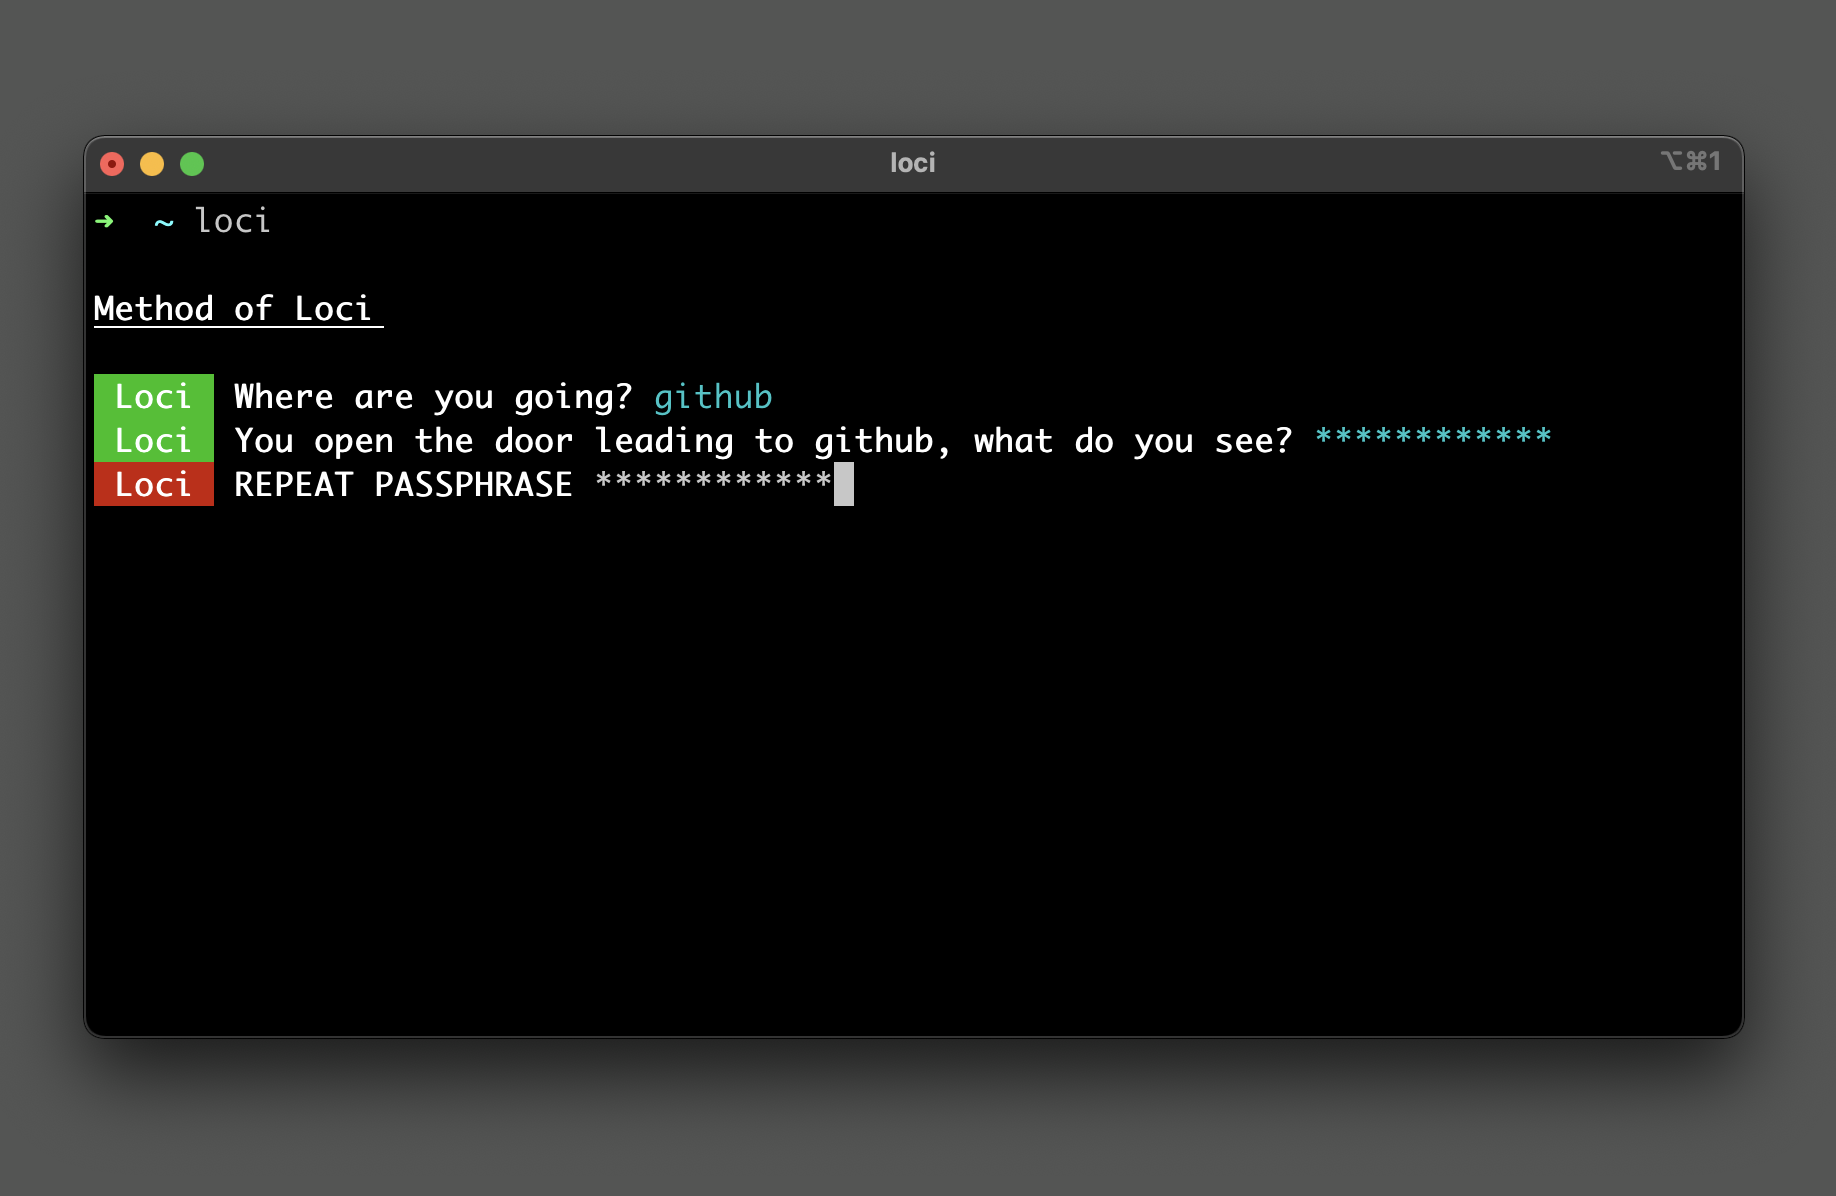
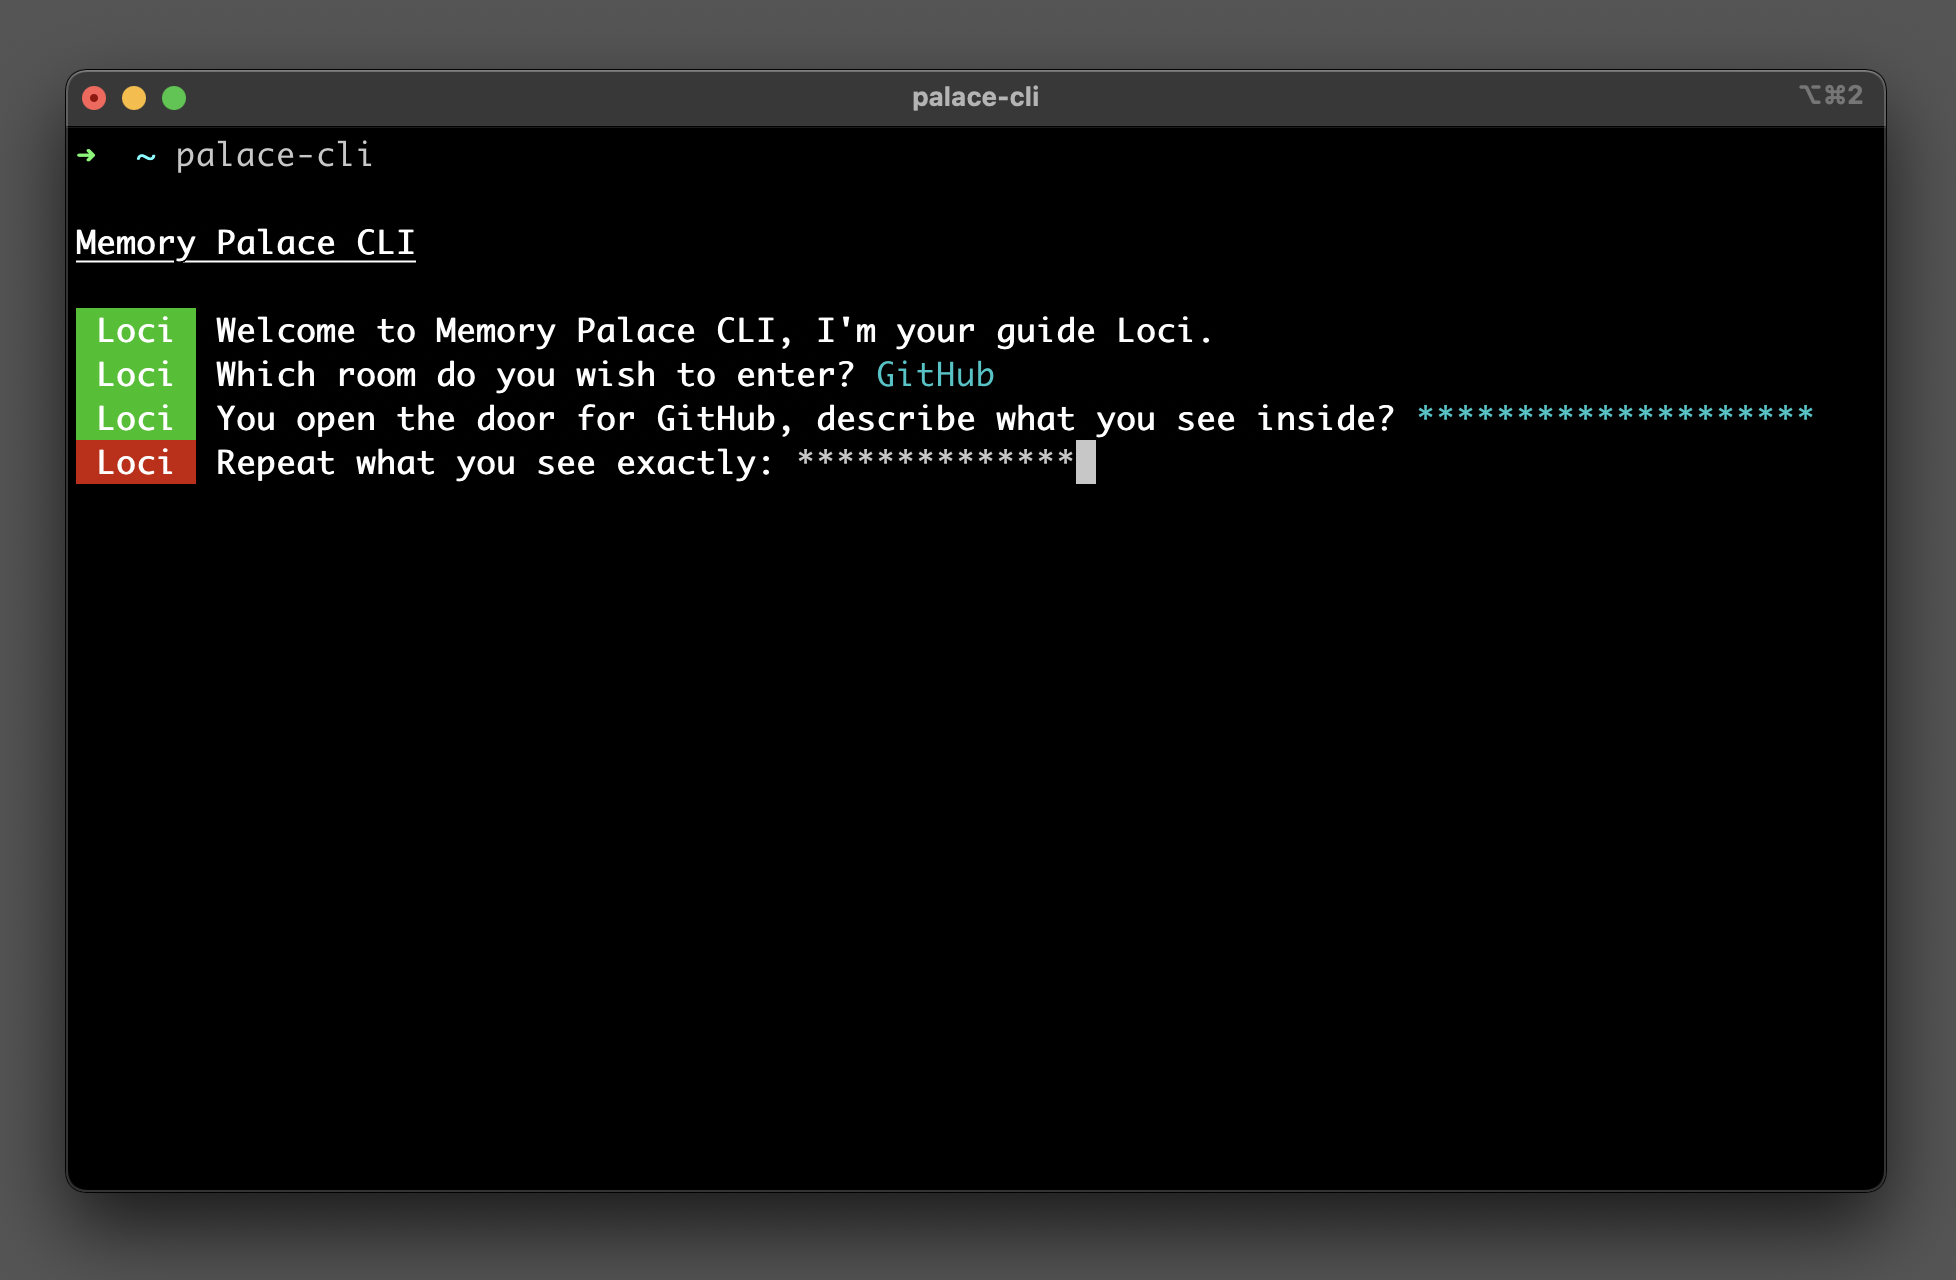
readme updates

Changed region(s): [[0.031, 0.0309, 0.9624, 0.99]]

diff --git a/README.md b/README.md
@@ -26,9 +26,37 @@ Type `palace-cli` into your command line to start the Q&A flow.
 <br />
 
 <div align="center">
-  <img width="100%" src="misc/loci-cli.png">
+  <img width="100%" src="misc/palace-cli.png">
 </div>
 
+<br />
+
+The combination of your answers will always yield the same output.
+
+<br />
+
+`Which room do you wish to enter?`
+
+_For example: GitHub, Amazon, Twitter, some other service or thing_
+
+<br />
+
+`You open the door for X, describe what you see inside?`
+
+_Create a passphrase like "a dog smoking a cigar" or "a horse wearing clogs"_
+
+<br />
+
+```
+ROOM + WHAT SEE YOU = A213D891BeE%FdC+9e1%F!1#B$8~3!ce7#2d8^1d6755e
+```
+
+<br />
+<div align="center">
+  <img width="100%" src="misc/output.png">
+</div>
+
+<br />
 <br />
 
 ## Todo
